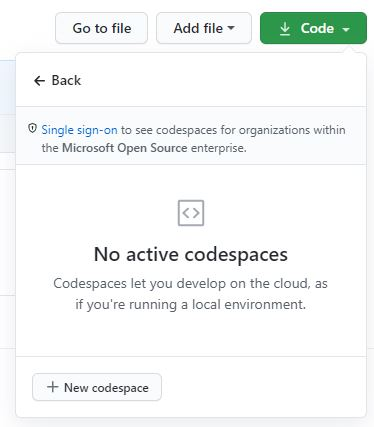
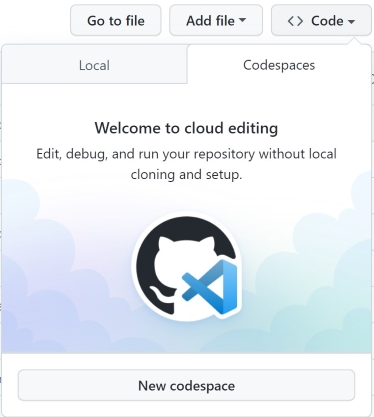
Update outdated codespaces screenshot and note (#41)

diff --git a/README.md b/README.md
@@ -35,12 +35,8 @@ Create your repo from this template and add your application code
 
 ## Open with Codespaces
 
-> Note this screen shot is a little out of date with the released version of Codespaces
->
-> We LOVE PRs ... :)
-
 - Click the `Code` button on your repo
-- Click `Open with Codespaces`
+- Click the `Codespaces` tab
 - Click `New Codespace`
 - Choose the `4 core` option
   - 2 core isn't enough to run everything well
@@ -400,7 +396,7 @@ rm -rf dapr-app
 - Team [Engineering Practices](.github/EngineeringPractices.md)
 - CSE Engineering Fundamentals [Playbook](https://github.com/Microsoft/code-with-engineering-playbook)
 
-## How to file issues and get help  
+## How to file issues and get help
 
 This project uses GitHub Issues to track bugs and feature requests. Please search the existing issues before filing new issues to avoid duplicates. For new issues, file your bug or feature request as a new issue.
 
